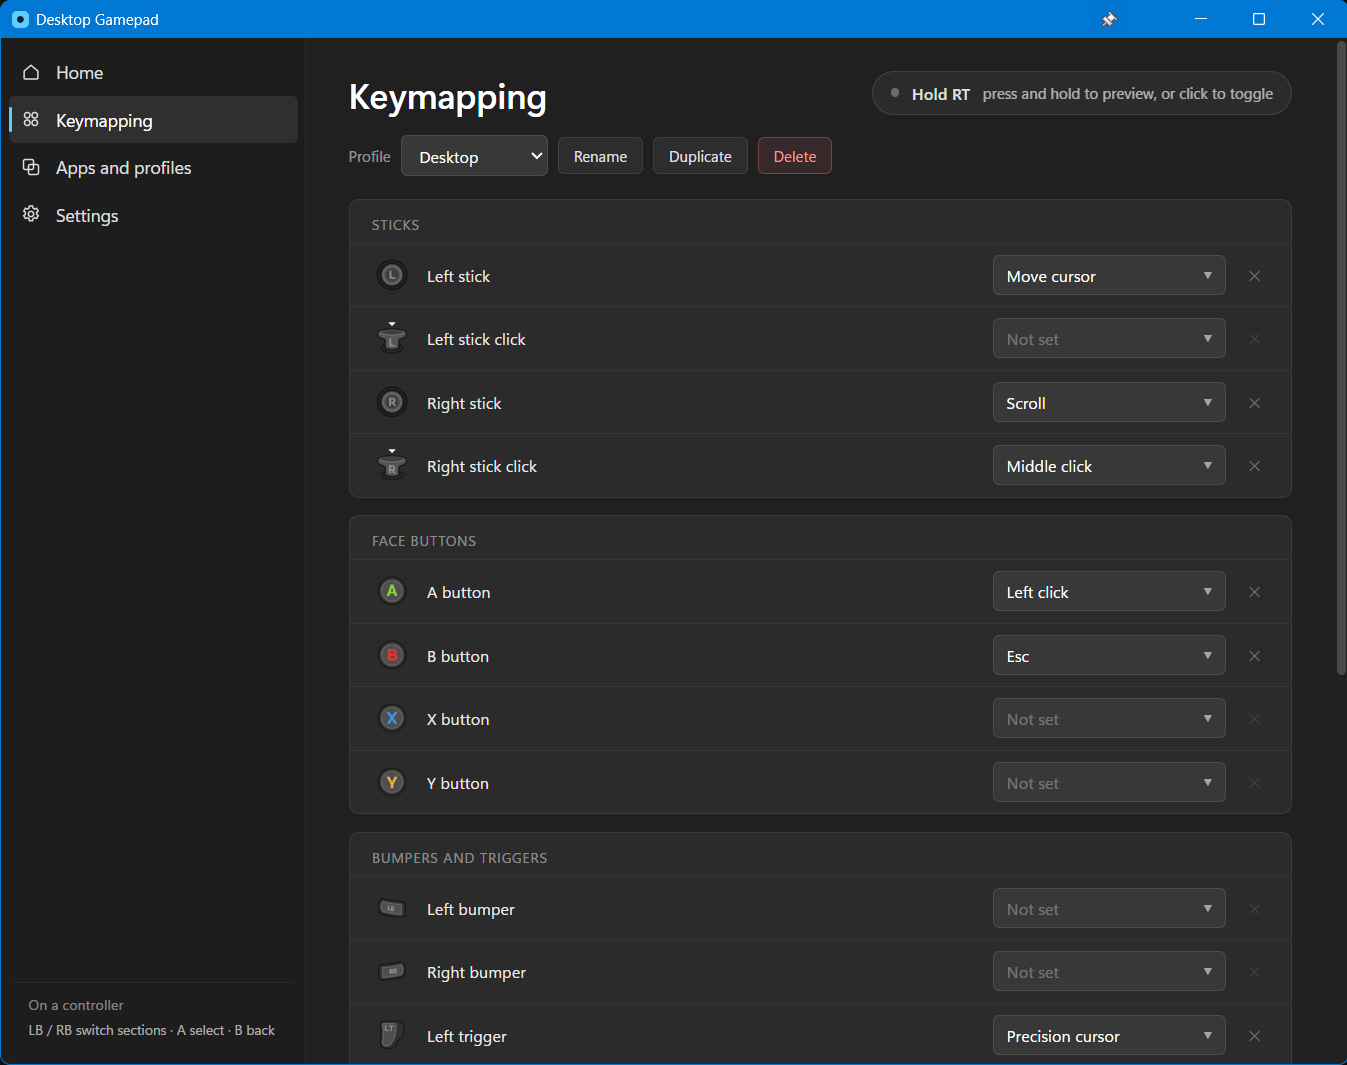
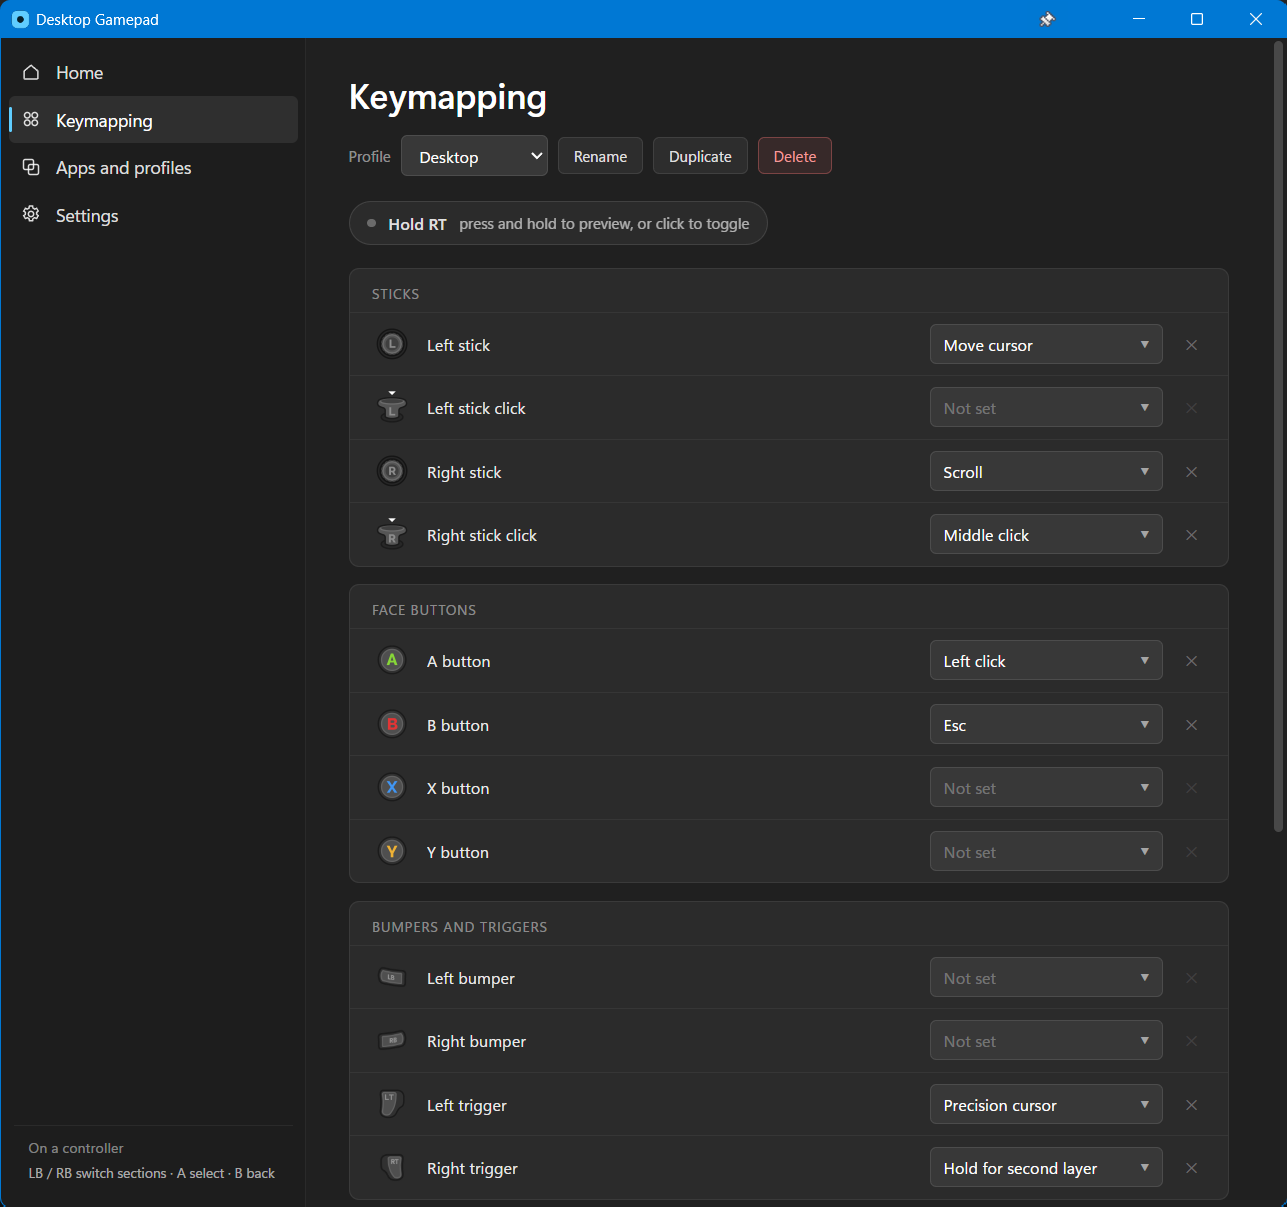
New screenshots, and a shorter Xbox mode tip

diff --git a/ui/src/Home.jsx b/ui/src/Home.jsx
@@ -71,7 +71,7 @@ export default function Home({ settings, update, status, appName, setDialog }) {
         <div style={{ flex: 1, minWidth: 0 }}>
           <div style={{ fontSize: 13, fontWeight: 600 }}>Works great with Xbox mode</div>
           <div style={{ fontSize: 12, lineHeight: 1.5, color: 'rgba(255,255,255,.72)', marginTop: 3 }}>
-            Xbox mode gives your PC a console-style home screen. {appName} stays out of the way there, and takes over as your mouse and keyboard when you open a desktop app or website. Turn it on in Settings → Gaming → Xbox mode.
+            Xbox mode gives your PC a console-style home screen. Turn it on in Settings → Gaming → Xbox mode.
           </div>
         </div>
       </div>

diff --git a/README.md b/README.md
@@ -4,7 +4,7 @@
 
 Works great with the new Windows Xbox mode.
 
-![The Desktop Gamepad window](assets/screenshot.png)
+![The Desktop Gamepad window](assets/home.png)
 
 ## Features
 
